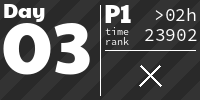
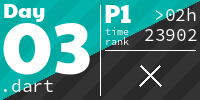
update to new version of AoCTiles

diff --git a/readme.md b/readme.md
@@ -50,13 +50,13 @@ Trying to solve the Advent of Code Challenges with [Dart](https://dart.dev/). Th
 <h1 align="center">
   2021 - 37 ⭐
 </h1>
-<a href="None">
+<a href="2021/day_01/bin/day_01.dart">
   <img src="Media/2021/01.png" width="161px">
 </a>
-<a href="None">
+<a href="2021/day_02/bin/day_02.dart">
   <img src="Media/2021/02.png" width="161px">
 </a>
-<a href="None">
+<a href="2021/day_03/bin/day_03.dart">
   <img src="Media/2021/03.png" width="161px">
 </a>
 <a href="2021/day_04/day_04.py">
